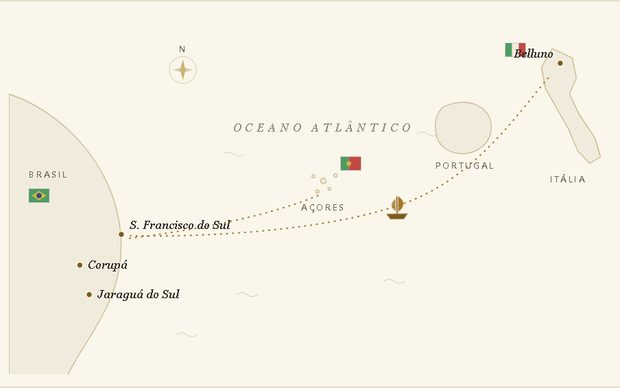
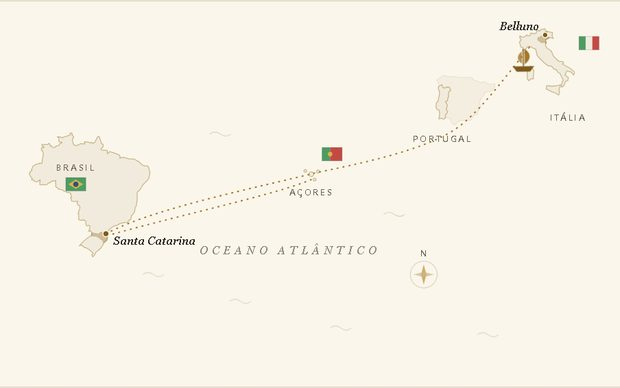
Mapas de verdade: Brasil com SC dourada + Italia com Veneto dourado (insets) + mapa da rota em colagem com formas reais; navio navega ao longo da rota

diff --git a/index.html b/index.html
@@ -266,6 +266,13 @@
       50% { transform: translateY(-3px) rotate(2deg); }
     }
   }
+  .mapa-caminho .pais-vizinho { fill: var(--papel); stroke: var(--linha); stroke-width: 0.8; opacity: 0.75; }
+  .mapa-caminho .destaque { fill: var(--latao); opacity: 0.4; stroke: var(--latao-texto); stroke-width: 1; }
+  .mapa-duplo { display: grid; grid-template-columns: 1fr 1fr; gap: 14px; margin-top: 14px; }
+  @media (max-width: 620px) { .mapa-duplo { grid-template-columns: 1fr; } }
+  .mapa-mini { background: var(--papel-carta); border: 1px solid var(--linha); padding: clamp(8px, 2vw, 14px); margin: 0; }
+  .mapa-mini svg { display: block; width: 100%; height: auto; }
+  .mapa-mini figcaption { text-align: center; font-style: italic; color: var(--tinta-suave); font-size: 0.92rem; margin-top: 8px; }
   .paradas { list-style: none; counter-reset: parada; margin: 30px 0 0; padding: 0; display: grid; gap: 18px; }
   .paradas li { counter-increment: parada; display: grid; grid-template-columns: 46px 1fr; gap: 14px; align-items: start; }
   .paradas li::before {
@@ -1138,49 +1145,32 @@
     <p class="rotulo">Para se situar</p>
     <h2>O caminho da família</h2>
     <p class="abertura-secao">Antes dos capítulos, o mapa: quatro lugares contam de onde viemos e onde criamos raiz. As linhas pontilhadas são as viagens de navio — repare que elas se movem devagarinho, como o mar.</p>
+    <!-- MAPA:INICIO (este trecho é gerado pelo gera_mapas; editar lá) -->
     <div class="mapa-moldura">
-      <svg class="mapa-caminho" viewBox="0 0 900 540" role="img" aria-label="Mapa desenhado à moda antiga mostrando as viagens da família: da Itália e das ilhas dos Açores, atravessando o oceano Atlântico, até Santa Catarina, no Brasil.">
-        <!-- Brasil (costa de Santa Catarina) -->
-        <path class="terra" d="M 0,120 C 60,140 120,190 150,260 C 175,320 172,380 150,430 C 132,472 105,505 88,540 L 0,540 Z"/>
-        <text class="rotulo-pais" x="30" y="245">BRASIL</text>
-        <!-- bandeira do Brasil -->
-        <g transform="translate(30,262)">
-          <rect width="30" height="20" fill="#4E9B63" stroke="rgba(0,0,0,.15)"/>
-          <path d="M 15,3 L 26,10 L 15,17 L 4,10 Z" fill="#D8B54A"/>
-          <circle cx="15" cy="10" r="4" fill="#35507A"/>
-        </g>
-        <!-- Itália (a bota) -->
-        <path class="terra" d="M 812,52 L 842,66 L 848,96 L 838,120 L 852,150 L 876,186 L 884,214 L 868,224 L 850,205 L 836,172 L 818,140 L 802,112 L 796,80 Z"/>
-        <text class="rotulo-pais" x="836" y="252" text-anchor="middle">ITÁLIA</text>
-        <!-- bandeira da Itália -->
-        <g transform="translate(742,44)">
-          <rect width="10" height="20" fill="#4E9B63"/>
-          <rect x="10" width="10" height="20" fill="#F1EBDD"/>
-          <rect x="20" width="10" height="20" fill="#C34A44"/>
-          <rect width="30" height="20" fill="none" stroke="rgba(0,0,0,.15)"/>
-        </g>
-        <!-- Portugal -->
-        <path class="terra" d="M 648,140 C 672,128 700,130 714,148 C 726,164 722,188 706,200 C 688,214 660,212 646,196 C 634,182 634,154 648,140 Z"/>
-        <text class="rotulo-pais" x="682" y="232" text-anchor="middle">PORTUGAL</text>
-        <!-- Açores (as ilhas) -->
-        <circle class="terra" cx="470" cy="250" r="4"/>
-        <circle class="terra" cx="488" cy="242" r="2.6"/>
-        <circle class="terra" cx="455" cy="243" r="2.3"/>
-        <circle class="terra" cx="479" cy="262" r="2.1"/>
-        <circle class="terra" cx="461" cy="266" r="2.5"/>
-        <text class="rotulo-pais" x="470" y="294" text-anchor="middle">AÇORES</text>
-        <!-- bandeira de Portugal -->
-        <g transform="translate(496,214)">
-          <rect width="12" height="20" fill="#4E9B63"/>
-          <rect x="12" width="18" height="20" fill="#C34A44"/>
-          <circle cx="12" cy="10" r="3.4" fill="#D8B54A"/>
-          <rect width="30" height="20" fill="none" stroke="rgba(0,0,0,.15)"/>
-        </g>
-        <!-- as duas viagens (linhas pontilhadas) -->
-        <path class="rota" d="M 806,96 C 760,150 700,240 600,280 C 500,320 320,335 178,332"/>
-        <path class="rota" d="M 462,272 C 380,305 270,325 178,336"/>
-        <!-- o navio (o grupo de fora dá o lugar; o de dentro balança) -->
-        <g transform="translate(580,282)">
+      <svg class="mapa-caminho" viewBox="0 0 900 540" role="img" aria-label="Mapa das viagens da família: da Itália (Belluno) e das ilhas dos Açores, atravessando o oceano Atlântico, até Santa Catarina, no Brasil. As formas dos países são as verdadeiras, arrumadas como num cartaz antigo de navegação.">
+        <path class="pais-vizinho" d="M641.8,110.0 L642.1,103.3 L639.2,99.2 L649.2,92.4 L657.7,94.1 L667.1,94.0 L674.6,95.6 L680.4,95.1 L691.7,95.5 L694.5,99.1 L707.4,103.4 L709.9,101.4 L717.8,105.7 L725.9,104.4 L726.3,109.9 L719.6,116.2 L710.7,118.2 L710.0,121.4 L705.7,126.6 L703.0,134.3 L705.8,139.7 L701.7,143.9 L700.2,150.1 L694.9,152.0 L690.0,159.2 L681.1,159.4 L674.4,159.2 L670.0,162.5 L667.4,166.1 L663.9,165.3 L661.3,162.1 L659.4,156.7 L652.8,155.2 L652.2,152.1 L654.8,148.6 L655.8,146.0 L653.4,143.2 L655.3,137.0 L652.5,131.3 L655.5,130.5 L655.8,126.1 L657.0,124.7 L657.0,117.3 L660.3,114.7 L658.3,110.0 L654.2,109.7 L653.0,110.9 L648.9,110.9 L647.2,106.2 L644.3,107.6 L641.8,110.0 Z"/>
+        <path class="terra" d="M641.8,110.0 L644.3,107.6 L647.2,106.2 L648.9,110.9 L653.0,110.9 L654.2,109.7 L658.3,110.0 L660.3,114.7 L657.0,117.3 L657.0,124.7 L655.8,126.1 L655.5,130.5 L652.5,131.3 L655.3,137.0 L653.4,143.2 L655.8,146.0 L654.8,148.6 L652.2,152.1 L652.8,155.2 L650.0,157.7 L646.3,156.3 L642.7,157.4 L643.8,150.0 L643.1,144.2 L640.0,143.3 L638.3,139.7 L638.9,133.5 L641.7,130.1 L642.2,126.3 L643.6,120.6 L643.5,116.6 L642.1,113.2 L641.8,110.0 Z"/>
+        <path class="terra" d="M824.5,106.5 L822.0,114.0 L823.1,116.9 L821.6,121.8 L816.2,118.2 L812.7,117.2 L802.9,112.4 L803.9,107.5 L812.1,108.4 L819.2,107.4 L824.5,106.5 Z M780.4,78.4 L784.6,85.1 L783.6,97.6 L780.4,97.0 L777.5,100.2 L774.9,97.6 L774.6,86.2 L773.0,80.8 L776.9,81.3 L780.4,78.4 Z M802.5,25.9 L812.5,28.3 L811.8,33.0 L813.5,37.0 L807.9,35.6 L802.2,39.0 L802.6,43.7 L801.7,46.3 L804.0,51.2 L810.6,55.9 L814.1,63.7 L821.9,71.3 L827.4,71.3 L829.1,73.4 L827.1,75.3 L833.4,78.7 L838.5,81.5 L844.5,86.5 L845.3,88.2 L844.0,91.6 L840.1,87.2 L834.0,85.6 L831.0,91.8 L836.1,95.3 L835.3,100.2 L832.3,100.7 L828.6,108.9 L825.7,109.6 L825.7,106.7 L827.1,101.6 L828.7,99.6 L825.9,94.1 L823.8,89.4 L820.9,88.2 L818.8,84.1 L814.3,82.4 L811.3,78.6 L806.1,78.0 L800.6,73.7 L794.2,67.6 L789.5,62.1 L787.3,52.8 L783.8,51.7 L778.1,48.6 L774.9,49.8 L770.9,54.2 L767.9,54.9 L768.7,50.8 L765.0,49.6 L763.1,42.3 L765.6,39.4 L763.5,35.9 L763.8,33.2 L766.8,35.2 L770.2,34.8 L774.1,31.6 L775.3,33.1 L778.7,32.8 L780.2,29.0 L785.4,30.1 L788.4,28.6 L789.0,24.7 L793.2,26.0 L794.1,24.2 L801.0,22.6 L802.5,25.9 Z"/>
+        <path class="destaque" d="M790.3,37.5 L791.7,34.8 L792.1,35.3 L792.2,35.9 L792.7,36.1 L793.0,35.9 L793.7,36.0 L793.9,35.8 L794.1,35.1 L794.4,34.6 L794.7,34.1 L795.0,33.8 L795.4,33.7 L795.9,33.3 L797.0,33.4 L797.7,33.1 L797.6,32.8 L797.7,32.4 L798.3,32.1 L799.0,32.0 L799.5,31.5 L799.4,31.1 L799.2,30.7 L799.0,30.5 L798.5,29.9 L798.5,29.7 L798.7,29.6 L799.0,29.0 L798.6,28.5 L799.5,28.0 L800.2,27.6 L800.4,26.8 L801.0,27.1 L801.3,27.5 L802.1,27.3 L802.6,27.0 L803.4,26.7 L804.0,26.9 L804.7,26.9 L804.8,27.4 L804.3,28.3 L804.1,28.7 L803.3,29.1 L802.8,29.8 L802.2,30.5 L802.5,31.0 L803.0,31.3 L803.4,31.9 L802.9,32.5 L802.8,32.9 L803.1,33.6 L803.5,34.0 L803.8,34.6 L804.0,34.8 L804.3,34.7 L804.7,35.1 L805.2,34.7 L805.6,34.8 L806.4,34.8 L806.7,34.8 L806.8,34.9 L806.9,35.3 L807.0,35.7 L807.2,35.9 L807.3,36.2 L807.4,36.4 L807.6,36.5 L806.3,36.8 L805.4,37.3 L804.0,38.0 L802.9,38.6 L802.2,39.4 L802.0,40.3 L802.2,41.0 L802.3,41.7 L803.5,42.7 L803.7,43.0 L802.8,44.5 L802.3,44.0 L802.0,43.3 L801.4,43.3 L801.0,43.2 L800.2,42.8 L799.3,42.8 L798.5,42.8 L798.1,43.2 L797.6,43.4 L797.0,43.5 L796.5,43.2 L795.9,43.0 L795.2,42.6 L794.8,42.1 L794.1,42.0 L794.2,41.5 L793.6,41.5 L793.2,41.3 L792.9,41.1 L792.5,40.6 L791.7,40.0 L790.9,39.6 L790.7,39.2 L790.8,38.6 L790.4,38.3 Z"/>
+        <path class="terra" d="M105.6,346.7 L111.8,340.2 L117.0,335.6 L120.0,333.7 L123.9,331.1 L124.0,327.3 L121.7,324.5 L119.4,325.4 L120.3,322.7 L121.0,319.9 L121.0,317.3 L119.3,316.4 L117.6,317.2 L115.9,317.0 L115.3,315.2 L114.9,310.8 L114.0,309.4 L110.9,308.1 L109.0,309.1 L104.2,308.1 L104.5,301.7 L103.1,299.1 L104.6,298.1 L104.1,295.4 L105.4,293.3 L106.2,289.6 L105.1,286.6 L102.6,285.3 L102.1,283.4 L102.8,280.7 L94.0,280.5 L92.2,275.0 L93.5,274.9 L93.5,272.9 L92.6,271.5 L92.4,268.7 L89.7,267.3 L86.8,267.4 L84.9,266.0 L81.8,265.1 L80.0,263.3 L74.8,262.5 L69.8,258.3 L70.2,255.1 L69.7,253.3 L70.1,249.7 L64.1,250.5 L61.7,252.3 L57.7,254.2 L56.7,255.6 L54.3,255.8 L50.9,255.4 L48.3,256.2 L46.2,255.6 L46.5,248.4 L42.7,251.2 L38.6,251.1 L36.9,248.6 L33.9,248.3 L34.8,246.3 L32.3,243.4 L30.4,239.1 L31.6,238.2 L31.6,236.2 L34.3,234.9 L33.9,232.3 L35.1,230.7 L35.4,228.4 L40.7,225.2 L44.4,224.3 L45.0,223.6 L49.2,223.8 L51.3,210.8 L51.4,208.8 L50.6,206.0 L48.6,204.3 L48.6,200.9 L51.2,200.1 L52.1,200.6 L52.3,198.8 L49.6,198.3 L49.5,195.3 L58.5,195.4 L60.0,193.8 L61.3,195.3 L62.2,198.1 L63.1,197.5 L65.6,200.0 L69.2,199.7 L70.1,198.2 L73.5,197.1 L75.4,196.4 L75.9,194.4 L79.2,193.0 L79.0,192.0 L75.1,191.6 L74.4,188.6 L74.6,185.4 L72.5,184.2 L73.4,183.8 L76.8,184.4 L80.5,185.6 L81.8,184.4 L85.1,183.7 L90.3,181.9 L91.9,180.1 L91.3,178.8 L93.7,178.6 L94.8,179.7 L94.2,181.8 L95.8,182.5 L96.8,184.7 L95.5,186.3 L94.8,190.4 L96.0,192.8 L96.3,195.0 L99.2,197.2 L101.4,197.4 L101.9,196.5 L103.4,196.3 L105.5,195.5 L107.0,194.2 L109.5,194.6 L110.6,194.4 L113.1,194.8 L113.5,193.9 L112.8,192.9 L113.2,191.5 L115.1,192.0 L117.3,191.5 L119.9,192.5 L121.9,193.5 L123.3,192.2 L124.3,192.4 L125.0,193.7 L127.2,193.4 L128.9,191.6 L130.4,188.1 L133.1,183.7 L134.6,183.5 L135.8,186.1 L138.4,194.4 L140.8,195.2 L140.9,198.5 L137.5,202.4 L138.9,203.8 L147.0,204.6 L147.2,209.3 L150.7,206.2 L156.5,207.9 L164.1,210.8 L166.4,213.6 L165.6,216.2 L171.0,214.7 L179.9,217.2 L186.8,217.1 L193.6,221.0 L199.5,226.3 L203.0,227.7 L207.0,227.8 L208.6,229.3 L210.2,235.4 L210.9,238.2 L209.1,246.1 L206.8,249.2 L200.3,255.8 L197.4,261.1 L194.0,265.2 L192.8,265.3 L191.5,268.8 L191.8,277.7 L190.6,285.0 L190.1,288.1 L188.6,290.0 L187.8,296.3 L183.1,302.5 L182.4,307.4 L178.6,309.5 L177.6,312.3 L172.6,312.3 L165.3,314.1 L162.1,316.2 L156.9,317.6 L151.5,321.4 L147.6,326.1 L147.0,329.6 L147.7,332.3 L146.9,337.0 L145.8,339.4 L142.6,342.0 L137.5,350.3 L133.4,354.1 L130.3,356.3 L128.2,360.8 L125.2,363.5 L123.9,360.8 L125.9,358.6 L123.3,355.3 L119.7,352.7 L114.9,349.7 L113.2,349.8 L108.6,346.2 L105.6,346.7 Z"/>
+        <path class="destaque" d="M123.6,329.3 L123.7,329.0 L123.6,328.5 L123.9,328.1 L124.4,328.1 L125.4,327.9 L126.2,328.3 L127.6,328.3 L128.8,328.6 L129.9,328.8 L131.0,329.0 L131.8,329.4 L133.4,329.5 L134.3,329.8 L135.1,329.5 L134.9,328.9 L134.9,328.3 L135.7,327.9 L136.7,327.8 L137.8,327.0 L138.5,326.8 L139.2,327.3 L139.6,326.9 L140.1,326.9 L140.8,326.8 L141.5,327.0 L141.9,327.3 L142.4,327.6 L142.9,327.7 L143.4,327.5 L144.0,327.1 L144.3,326.8 L144.9,326.7 L145.5,326.6 L147.1,326.6 L147.6,327.7 L147.1,328.9 L146.8,330.1 L147.1,330.6 L147.0,331.4 L147.2,331.8 L147.5,332.0 L147.7,332.4 L147.2,332.4 L147.4,332.9 L147.3,333.2 L147.0,333.6 L147.3,334.2 L147.0,334.5 L147.2,335.6 L147.0,336.2 L147.0,336.7 L146.9,337.3 L146.4,338.2 L146.2,339.0 L143.3,341.0 L141.8,342.3 L141.2,341.9 L140.2,342.2 L140.1,342.3 L140.1,341.8 L140.3,341.7 L140.6,341.6 L140.9,341.3 L140.9,341.0 L140.9,340.5 L140.9,340.0 L141.2,339.6 L141.5,339.3 L142.1,339.1 L141.7,338.4 L141.4,338.3 L140.6,338.3 L139.9,338.4 L139.0,338.3 L137.7,337.8 L136.9,336.8 L136.4,336.0 L135.2,335.1 L134.4,334.6 L133.4,333.9 L132.5,333.9 L131.7,333.6 L131.2,333.0 L130.4,332.6 L129.5,332.5 L128.3,332.8 L127.2,332.4 L126.8,331.8 L125.6,332.3 L124.6,332.1 L123.6,332.3 L123.2,332.0 L123.2,331.7 L123.4,331.5 L123.6,331.2 L123.7,330.9 L123.7,330.5 L123.5,330.2 L123.6,329.9 L123.6,329.4 Z"/>
+        <!-- Açores -->
+        <circle class="terra" cx="452" cy="240" r="3.4"/>
+        <circle class="terra" cx="462" cy="236" r="2.2"/>
+        <circle class="terra" cx="443" cy="235" r="2"/>
+        <circle class="terra" cx="457" cy="248" r="2"/>
+        <text class="rotulo-pais" x="452" y="272" text-anchor="middle">AÇORES</text>
+        <g transform="translate(468,200)"><rect width="12" height="20" fill="#4E9B63"/><rect x="12" width="18" height="20" fill="#C34A44"/><circle cx="12" cy="10" r="3.4" fill="#D8B54A"/><rect width="30" height="20" fill="none" stroke="rgba(0,0,0,.15)"/></g>
+        <text class="rotulo-pais" x="648" y="192" text-anchor="middle">PORTUGAL</text>
+        <g transform="translate(852,34)"><rect width="10" height="20" fill="#4E9B63"/><rect x="10" width="10" height="20" fill="#F1EBDD"/><rect x="20" width="10" height="20" fill="#C34A44"/><rect width="30" height="20" fill="none" stroke="rgba(0,0,0,.15)"/></g>
+        <text class="rotulo-pais" x="836" y="160" text-anchor="middle">ITÁLIA</text>
+        <g transform="translate(85,245)"><rect width="30" height="20" fill="#4E9B63"/><path d="M 15,3 L 26,10 L 15,17 L 4,10 Z" fill="#D8B54A"/><circle cx="15" cy="10" r="4" fill="#35507A"/><rect width="30" height="20" fill="none" stroke="rgba(0,0,0,.15)"/></g>
+        <text class="rotulo-pais" x="100" y="235" text-anchor="middle">BRASIL</text>
+        <!-- as duas viagens -->
+        <path class="rota" d="M778,50 C 730,110 700,150 668,172 C 620,205 520,225 458,238 C 380,258 220,290 149,327"/>
+        <path class="rota" d="M452,248 C 400,270 260,300 150,331"/>
+        <!-- o navio -->
+        <g class="navio-caixa" transform="translate(520,225)">
           <g class="navio">
             <path class="navio-casco" d="M -16,18 L 16,18 L 10,26 L -10,26 Z"/>
             <line class="navio-mastro" x1="0" y1="18" x2="0" y2="-8"/>
@@ -1189,29 +1179,64 @@
           </g>
         </g>
         <!-- cidades -->
-        <circle class="cidade" cx="824" cy="74" r="4.5"/>
-        <text class="rotulo-cidade" x="814" y="66" text-anchor="end">Belluno</text>
-        <circle class="cidade" cx="168" cy="330" r="4.5"/>
-        <text class="rotulo-cidade" x="180" y="322">S. Francisco do Sul</text>
-        <circle class="cidade" cx="106" cy="376" r="4.5"/>
-        <text class="rotulo-cidade" x="118" y="381">Corupá</text>
-        <circle class="cidade" cx="120" cy="420" r="4.5"/>
-        <text class="rotulo-cidade" x="132" y="425">Jaraguá do Sul</text>
-        <!-- enfeites do mar -->
-        <g class="bussola" transform="translate(260,84)">
+        <circle class="cidade" cx="801.4" cy="31.8" r="4"/>
+        <text class="rotulo-cidade" x="792.4" y="24.8" text-anchor="end">Belluno</text>
+        <circle class="cidade" cx="145.0" cy="329.0" r="4.5"/>
+        <text class="rotulo-cidade" x="156.0" y="345.0">Santa Catarina</text>
+        <!-- enfeites -->
+        <g transform="translate(620,390)">
           <circle r="20" class="agua"/>
           <path d="M 0,-15 L 4,0 L 0,15 L -4,0 Z" fill="#C9A050" opacity="0.85"/>
           <path d="M -15,0 L 0,4 L 15,0 L 0,-4 Z" fill="#C9B58A" opacity="0.7"/>
           <text y="-27" text-anchor="middle" class="rotulo-pais" style="letter-spacing:.05em">N</text>
         </g>
-        <text class="oceano-nome" x="470" y="176" text-anchor="middle">OCEANO ATLÂNTICO</text>
-        <path class="agua" d="M 320,210 q 8,-6 16,0 q 8,6 16,0"/>
-        <path class="agua" d="M 610,180 q 8,-6 16,0 q 8,6 16,0"/>
-        <path class="agua" d="M 340,420 q 8,-6 16,0 q 8,6 16,0"/>
-        <path class="agua" d="M 560,400 q 8,-6 16,0 q 8,6 16,0"/>
-        <path class="agua" d="M 250,480 q 8,-6 16,0 q 8,6 16,0"/>
+        <text class="oceano-nome" x="420" y="360" text-anchor="middle">OCEANO ATLÂNTICO</text>
+        <path class="agua" d="M 300,180 q 8,-6 16,0 q 8,6 16,0"/>
+        <path class="agua" d="M 560,300 q 8,-6 16,0 q 8,6 16,0"/>
+        <path class="agua" d="M 330,430 q 8,-6 16,0 q 8,6 16,0"/>
+        <path class="agua" d="M 480,470 q 8,-6 16,0 q 8,6 16,0"/>
+        <path class="agua" d="M 700,480 q 8,-6 16,0 q 8,6 16,0"/>
+        <path class="agua" d="M 200,390 q 8,-6 16,0 q 8,6 16,0"/>
       </svg>
     </div>
+    <div class="mapa-duplo">
+      <figure class="mapa-mini">
+        <svg viewBox="0 0 381 498" class="mapa-caminho" role="img" aria-label="Mapa verdadeiro da Itália com a região do Vêneto pintada de dourado e a cidade de Belluno marcada.">
+        <path class="terra" d="M276.6,379.4 L265.8,411.3 L270.3,423.9 L264.0,444.7 L241.1,429.4 L225.8,425.1 L183.9,404.5 L188.1,383.7 L223.2,387.4 L253.8,383.0 L276.6,379.4 Z M87.3,258.8 L105.3,287.5 L101.1,341.1 L87.4,338.6 L75.2,352.1 L63.8,341.3 L62.6,292.5 L55.8,269.3 L72.3,271.4 L87.3,258.8 Z M182.3,33.7 L225.2,44.2 L221.9,64.1 L229.1,81.4 L205.2,75.5 L180.9,89.8 L182.5,109.9 L178.8,121.5 L188.7,142.1 L216.8,162.5 L231.9,196.0 L265.3,228.6 L288.8,228.4 L296.1,237.3 L287.7,245.4 L314.6,260.0 L336.6,272.3 L362.3,293.4 L365.4,301.0 L359.8,315.5 L343.2,296.6 L317.1,289.9 L304.5,316.1 L326.1,331.1 L322.6,352.2 L310.1,354.6 L294.0,389.4 L281.5,392.5 L281.6,380.1 L287.8,358.4 L294.3,349.7 L282.6,326.3 L273.4,305.8 L261.0,300.8 L252.1,283.3 L232.8,276.0 L219.8,259.7 L197.6,257.0 L174.2,238.8 L146.8,212.4 L126.4,189.1 L117.0,149.0 L102.1,144.3 L77.7,131.0 L63.9,136.4 L46.5,155.2 L34.1,158.2 L37.5,140.6 L21.2,135.5 L13.5,104.1 L23.9,91.8 L15.1,76.6 L16.3,65.2 L29.2,73.8 L43.7,71.9 L60.5,58.2 L65.7,64.6 L80.0,63.3 L86.5,47.0 L108.7,52.0 L121.9,45.2 L124.3,28.6 L142.5,34.4 L145.9,26.7 L175.6,19.6 L182.3,33.7 Z"/>
+        <path class="destaque" d="M130.1,83.6 L132.4,77.6 L135.2,73.0 L136.0,72.2 L137.6,72.4 L137.2,73.2 L137.5,74.0 L136.9,75.0 L136.7,76.2 L138.1,76.6 L139.3,78.0 L140.2,76.9 L140.1,77.5 L141.0,76.6 L141.5,76.2 L141.5,76.7 L142.7,76.2 L143.2,76.8 L144.4,77.1 L144.7,77.4 L145.1,77.0 L145.3,76.4 L146.2,75.6 L146.4,74.3 L146.3,73.4 L146.8,73.2 L146.8,72.2 L147.5,71.2 L148.2,70.6 L148.4,69.4 L148.6,69.2 L148.7,68.7 L149.1,68.1 L150.1,67.9 L151.4,68.5 L151.4,68.1 L151.8,67.4 L152.4,67.1 L152.2,65.5 L153.7,65.6 L155.7,64.5 L157.8,64.4 L158.6,65.9 L160.7,66.2 L161.6,66.0 L161.4,64.8 L161.2,64.0 L161.4,63.7 L161.0,63.3 L162.0,63.0 L162.2,62.9 L161.5,61.6 L161.7,61.0 L162.5,60.6 L164.2,60.5 L164.5,60.6 L165.5,60.5 L167.3,60.0 L168.4,59.0 L168.8,58.1 L169.3,57.8 L169.5,57.4 L169.9,57.1 L168.8,56.3 L168.3,55.7 L168.7,54.8 L167.8,54.6 L167.6,54.2 L167.6,53.7 L167.1,53.7 L165.8,53.3 L166.0,51.6 L165.1,51.1 L164.4,50.1 L164.9,49.9 L165.1,50.0 L165.4,49.8 L165.5,49.6 L166.1,49.9 L166.3,48.3 L166.4,47.4 L167.1,47.3 L167.4,45.9 L165.9,45.5 L165.3,45.2 L167.3,43.6 L168.7,43.3 L169.5,43.0 L171.0,43.2 L171.9,41.8 L172.4,41.1 L172.8,39.7 L173.2,38.8 L173.3,37.6 L173.7,37.9 L174.3,38.2 L175.7,39.1 L176.3,39.4 L176.8,40.1 L176.8,40.7 L178.0,39.9 L179.1,39.6 L180.2,39.7 L180.9,39.3 L182.6,39.5 L182.4,38.8 L183.8,38.0 L185.3,37.3 L186.0,37.3 L186.4,37.3 L187.8,38.3 L188.6,38.2 L190.0,38.2 L190.6,38.3 L191.8,38.3 L192.7,38.9 L192.2,39.7 L192.0,40.4 L190.9,41.2 L190.0,41.8 L189.9,44.2 L190.9,45.8 L189.6,45.5 L188.8,45.7 L186.9,46.0 L186.2,46.9 L185.8,47.6 L185.1,49.0 L184.8,49.4 L183.6,50.5 L182.5,51.4 L181.6,51.9 L180.7,53.7 L181.1,55.0 L181.6,55.2 L182.2,55.7 L183.3,55.8 L183.6,56.4 L184.3,56.8 L184.7,57.9 L185.8,58.7 L185.9,59.6 L185.8,59.9 L184.9,61.0 L183.7,62.1 L183.1,63.1 L183.2,63.4 L183.4,64.0 L183.8,65.3 L184.0,67.0 L184.7,67.1 L185.7,67.8 L186.2,68.0 L186.4,68.6 L186.2,68.9 L187.1,70.1 L187.8,71.0 L187.8,71.9 L188.0,71.6 L188.5,72.1 L188.8,72.2 L189.0,71.5 L189.7,71.7 L190.4,72.4 L190.9,73.2 L191.4,73.1 L192.2,72.2 L193.2,71.7 L193.6,71.4 L194.3,70.7 L195.0,71.6 L195.6,71.9 L196.1,71.2 L197.7,72.1 L198.7,71.9 L199.5,71.2 L200.0,71.4 L200.3,71.9 L200.6,72.1 L200.7,72.5 L200.4,72.3 L200.6,73.0 L200.8,73.0 L201.1,74.3 L201.2,74.5 L201.5,75.2 L201.2,75.9 L201.5,75.9 L201.8,75.5 L202.1,76.9 L202.5,77.1 L202.5,77.5 L202.6,77.9 L203.0,78.1 L202.9,78.6 L203.0,78.7 L203.3,78.6 L203.5,78.7 L204.0,79.5 L200.8,79.9 L198.5,80.5 L198.2,80.4 L197.5,81.1 L196.1,81.9 L194.6,82.8 L192.5,84.1 L189.9,85.1 L188.4,85.9 L185.6,87.0 L184.4,87.7 L183.8,88.4 L182.7,88.2 L181.2,90.5 L180.9,91.6 L180.8,91.9 L180.1,94.0 L179.9,95.4 L180.1,96.0 L180.0,96.9 L181.0,98.7 L180.9,99.1 L180.8,99.8 L181.3,101.7 L182.2,102.7 L184.8,105.1 L186.2,105.7 L186.4,105.7 L187.6,106.7 L187.1,107.2 L185.8,109.6 L184.0,112.2 L183.3,113.5 L182.2,113.2 L181.4,112.2 L181.1,111.3 L179.9,111.0 L179.5,109.4 L179.8,108.4 L179.2,107.6 L178.0,108.2 L177.4,108.3 L176.7,108.3 L176.2,107.7 L175.8,108.1 L174.5,107.1 L173.0,106.5 L172.4,106.2 L170.6,106.0 L169.2,106.1 L168.3,106.3 L167.5,106.3 L165.8,106.3 L165.0,106.3 L163.9,106.9 L163.5,107.0 L163.3,107.8 L162.9,108.3 L162.0,108.5 L161.3,108.7 L160.3,109.4 L158.9,109.7 L158.6,109.3 L158.6,108.8 L157.9,108.6 L156.6,107.9 L155.0,107.9 L153.8,108.1 L153.8,107.3 L153.7,106.8 L152.9,106.5 L150.7,105.3 L149.5,104.6 L149.1,104.2 L149.1,103.4 L148.7,103.1 L147.7,103.2 L146.4,102.8 L146.4,102.2 L146.4,101.8 L146.8,100.8 L145.8,100.5 L145.0,100.8 L144.1,100.7 L143.6,101.3 L142.3,100.8 L142.3,99.9 L142.4,99.1 L141.6,99.0 L140.8,99.1 L140.8,97.9 L140.5,97.2 L139.4,96.8 L138.5,95.8 L137.4,95.3 L136.0,94.1 L134.8,92.8 L133.0,93.0 L132.6,92.4 L132.3,92.3 L132.0,91.5 L131.8,91.0 L132.0,90.1 L132.5,89.0 L131.9,88.2 L130.3,88.4 L130.2,87.3 L130.4,87.0 Z"/>
+        <circle class="cidade" cx="177.5" cy="59.1" r="5"/>
+        <text class="rotulo-cidade" x="186.5" y="53.1">Belluno</text>
+        <text class="rotulo-pais" x="290" y="470" text-anchor="middle">ITÁLIA</text>
+        <g transform="translate(20,20)"><rect width="10" height="20" fill="#4E9B63"/><rect x="10" width="10" height="20" fill="#F1EBDD"/><rect x="20" width="10" height="20" fill="#C34A44"/><rect width="30" height="20" fill="none" stroke="rgba(0,0,0,.15)"/></g>
+      </svg>
+        <figcaption>A Itália de verdade — com o <strong>Vêneto</strong> pintado de dourado: é lá que fica <strong>Belluno</strong>, de onde os Schiocchet partiram.</figcaption>
+      </figure>
+      <figure class="mapa-mini">
+        <svg viewBox="0 0 465 417" class="mapa-caminho" role="img" aria-label="Mapa verdadeiro do Brasil com o estado de Santa Catarina pintado de dourado e a região de Corupá e Jaraguá do Sul marcada.">
+        <path class="terra" d="M168.7,373.0 L182.1,359.0 L193.4,349.0 L200.1,344.8 L208.5,339.1 L208.7,330.9 L203.7,324.9 L198.7,326.9 L200.7,321.0 L202.1,314.9 L202.1,309.2 L198.5,307.3 L194.7,309.0 L191.0,308.6 L189.8,304.6 L188.9,295.2 L187.0,292.1 L180.3,289.3 L176.2,291.3 L165.6,289.3 L166.3,275.3 L163.3,269.6 L166.5,267.5 L165.5,261.6 L168.2,257.1 L170.0,249.0 L167.7,242.6 L162.2,239.7 L161.1,235.6 L162.6,229.7 L143.4,229.3 L139.6,217.3 L142.5,217.1 L142.4,212.7 L140.4,209.6 L140.0,203.7 L134.2,200.6 L127.9,200.7 L123.7,197.7 L117.0,195.7 L113.0,191.9 L101.8,190.2 L91.0,180.9 L91.8,174.0 L90.6,170.1 L91.6,162.3 L78.5,164.1 L73.3,168.0 L64.5,172.1 L62.3,175.2 L57.1,175.5 L49.7,174.6 L44.1,176.4 L39.5,175.2 L40.2,159.5 L32.0,165.6 L23.2,165.4 L19.4,159.9 L12.7,159.3 L14.8,154.8 L9.3,148.6 L5.1,139.3 L7.8,137.4 L7.8,133.1 L13.8,130.1 L12.8,124.5 L15.4,120.9 L16.1,116.1 L27.5,109.1 L35.7,107.1 L37.1,105.6 L46.1,106.1 L50.6,77.8 L50.8,73.4 L49.2,67.5 L44.8,63.7 L44.8,56.2 L50.5,54.5 L52.5,55.6 L52.8,51.6 L47.0,50.6 L46.8,44.1 L66.3,44.4 L69.6,40.8 L72.4,44.1 L74.3,50.2 L76.2,48.9 L81.7,54.3 L89.5,53.7 L91.5,50.5 L98.9,48.1 L103.0,46.4 L104.2,42.1 L111.3,39.1 L110.8,37.0 L102.3,36.1 L100.9,29.6 L101.3,22.7 L96.8,20.0 L98.7,19.1 L106.1,20.4 L114.1,23.0 L117.0,20.5 L124.1,18.9 L135.3,15.1 L139.0,11.1 L137.7,8.2 L142.9,7.8 L145.2,10.2 L143.9,14.7 L147.3,16.2 L149.6,21.0 L146.8,24.7 L145.3,33.4 L147.8,38.6 L148.5,43.4 L154.7,48.2 L159.6,48.7 L160.7,46.7 L163.9,46.3 L168.4,44.5 L171.6,41.7 L177.2,42.6 L179.6,42.2 L185.0,43.1 L185.9,41.0 L184.3,38.9 L185.3,35.9 L189.3,36.9 L194.0,35.8 L199.8,38.0 L204.1,40.1 L207.2,37.3 L209.5,37.8 L210.8,40.7 L215.6,39.9 L219.4,36.0 L222.5,28.4 L228.4,19.0 L231.8,18.5 L234.3,24.2 L239.9,42.2 L245.3,43.9 L245.5,51.0 L238.0,59.5 L241.1,62.6 L258.8,64.2 L259.2,74.5 L266.8,67.8 L279.3,71.5 L295.9,77.8 L300.8,83.8 L299.2,89.5 L310.8,86.3 L330.3,91.8 L345.2,91.4 L360.0,99.9 L372.8,111.5 L380.5,114.4 L389.0,114.8 L392.6,118.1 L396.0,131.2 L397.7,137.4 L393.7,154.5 L388.6,161.2 L374.5,175.5 L368.2,187.2 L360.8,196.1 L358.3,196.3 L355.5,203.9 L356.2,223.2 L353.4,239.0 L352.3,245.8 L349.2,249.9 L347.4,263.7 L337.3,277.1 L335.6,287.8 L327.5,292.2 L325.1,298.4 L314.3,298.4 L298.5,302.3 L291.5,306.9 L280.3,309.9 L268.5,318.1 L260.0,328.3 L258.6,336.0 L260.3,341.7 L258.4,352.1 L256.1,357.1 L249.1,362.8 L238.0,380.9 L229.2,389.1 L222.4,393.9 L217.9,403.7 L211.3,409.6 L208.5,403.8 L212.9,398.9 L207.1,391.9 L199.3,386.2 L189.0,379.6 L185.3,379.9 L175.2,371.9 L168.7,373.0 Z"/>
+        <path class="destaque" d="M207.8,335.4 L207.7,335.1 L207.8,334.8 L208.1,334.6 L208.0,334.1 L208.1,334.0 L208.0,333.5 L208.1,333.2 L208.3,332.9 L208.5,332.6 L208.8,332.3 L209.3,332.4 L210.4,332.6 L211.4,332.2 L211.7,332.2 L212.3,332.3 L213.0,333.0 L213.6,333.3 L214.5,333.5 L215.9,333.3 L217.2,333.2 L217.8,333.3 L218.9,333.8 L219.6,333.8 L220.5,334.1 L221.4,334.1 L222.2,334.4 L223.1,334.2 L223.9,334.5 L224.4,335.0 L224.9,335.4 L225.7,335.6 L226.8,335.6 L228.4,335.4 L229.3,335.7 L230.3,336.0 L230.9,337.0 L231.4,336.4 L232.2,336.2 L232.7,335.9 L232.7,335.4 L232.5,335.0 L232.4,334.5 L232.2,334.2 L232.2,333.7 L232.4,333.1 L233.0,332.7 L233.6,332.5 L234.1,332.1 L235.3,332.2 L235.9,332.5 L236.4,332.1 L237.6,332.1 L238.5,330.9 L239.5,330.1 L239.4,329.7 L240.2,329.9 L240.5,329.9 L241.0,330.2 L241.5,330.8 L241.7,330.7 L242.1,330.1 L242.7,330.1 L243.2,330.4 L243.2,329.9 L243.8,330.3 L244.2,330.1 L245.0,330.0 L245.3,330.2 L245.8,329.9 L246.4,330.2 L246.7,330.3 L247.1,330.7 L247.5,330.8 L247.9,331.2 L248.4,331.6 L248.6,331.6 L249.0,331.9 L249.5,332.0 L249.7,331.9 L250.1,331.8 L250.4,331.4 L250.9,331.3 L251.3,331.1 L252.0,330.7 L252.2,330.4 L252.3,330.3 L252.7,329.9 L253.1,329.7 L253.6,329.7 L254.1,329.6 L254.6,329.7 L255.1,329.6 L255.4,329.5 L258.3,329.4 L258.8,329.4 L259.0,329.4 L259.1,331.2 L259.8,331.9 L260.0,332.0 L259.3,333.3 L259.0,334.2 L258.5,335.2 L258.2,336.0 L258.2,336.8 L258.5,337.5 L259.0,337.5 L259.0,338.1 L258.6,338.8 L258.7,339.5 L258.8,339.9 L259.2,340.0 L259.1,340.4 L259.0,340.8 L258.9,341.1 L259.6,341.5 L259.9,341.2 L260.2,341.3 L260.0,341.8 L260.0,342.1 L259.9,341.8 L259.2,342.1 L258.8,342.6 L259.2,343.1 L259.5,343.1 L259.7,343.4 L259.7,343.8 L259.4,343.9 L259.4,344.2 L258.7,344.4 L258.6,344.8 L258.8,345.4 L259.1,345.8 L259.3,346.2 L258.8,346.1 L258.6,346.4 L259.0,347.5 L259.2,348.6 L259.1,349.0 L259.2,349.2 L258.8,349.6 L258.7,350.3 L258.9,350.6 L258.7,351.0 L258.7,351.4 L258.5,351.7 L258.3,352.3 L258.5,352.7 L257.9,353.7 L257.6,354.6 L257.4,355.3 L257.4,355.7 L256.9,356.2 L256.5,356.5 L252.1,359.3 L250.6,360.7 L249.6,361.7 L247.6,363.8 L247.3,363.6 L246.6,363.3 L246.4,362.9 L245.7,362.6 L244.9,362.8 L244.1,363.1 L244.6,364.1 L244.3,363.8 L243.8,363.5 L243.6,363.3 L243.5,362.9 L243.5,362.6 L243.9,362.9 L244.1,362.5 L244.2,362.1 L244.2,362.5 L244.8,362.3 L244.9,362.1 L245.1,361.8 L245.3,361.6 L245.4,361.2 L245.3,361.2 L245.5,360.9 L245.4,360.6 L245.7,360.2 L245.4,359.6 L245.7,359.2 L245.5,358.9 L245.5,358.4 L245.5,358.1 L245.7,357.7 L246.1,357.8 L246.4,357.4 L246.8,357.3 L246.8,356.9 L247.2,356.6 L247.9,356.6 L247.9,356.2 L247.7,355.5 L247.4,355.2 L247.1,355.2 L246.6,355.3 L246.2,354.9 L245.9,354.9 L245.4,354.8 L244.8,354.9 L244.0,355.2 L243.5,354.9 L243.1,354.9 L242.4,354.8 L241.5,354.9 L240.8,354.6 L239.7,354.6 L238.8,354.2 L238.1,353.2 L237.3,352.1 L237.1,351.6 L236.3,351.3 L236.2,350.6 L235.6,349.9 L234.8,349.4 L234.2,348.5 L233.0,347.9 L232.3,347.5 L231.9,347.0 L231.0,346.4 L230.2,346.0 L229.4,345.9 L228.8,345.1 L228.2,345.1 L227.0,345.0 L226.6,345.3 L226.3,345.2 L225.4,344.7 L224.9,344.0 L225.0,343.8 L224.0,343.5 L223.4,342.8 L222.5,343.0 L222.2,342.6 L221.5,342.9 L220.8,342.8 L220.2,342.3 L219.2,342.5 L218.2,342.7 L217.7,342.4 L216.8,342.0 L216.0,341.9 L215.2,342.2 L215.0,341.3 L214.7,340.7 L213.7,341.7 L213.2,341.8 L211.9,342.1 L211.6,341.1 L210.9,341.3 L210.1,341.9 L208.9,341.8 L208.3,341.6 L207.4,341.7 L206.7,341.6 L206.8,341.2 L207.0,341.0 L207.0,340.7 L207.1,340.6 L207.3,340.6 L207.3,340.3 L207.4,340.0 L207.7,339.8 L207.7,339.6 L208.0,339.4 L208.3,339.3 L208.2,338.9 L208.1,338.5 L208.1,338.3 L208.0,338.0 L207.9,337.7 L207.7,337.5 L207.6,337.2 L207.6,337.0 L207.6,336.6 L207.7,336.5 L207.5,336.2 L207.7,336.0 L207.8,335.4 Z M260.9,343.9 L260.9,344.1 L261.0,344.1 L261.0,344.3 L261.0,344.3 L261.1,344.4 L261.1,344.4 L261.1,344.4 L261.2,344.4 L261.3,344.5 L261.3,344.5 L261.3,344.4 L261.3,344.4 L261.4,344.4 L261.4,344.4 L261.4,344.5 L261.4,344.5 L261.4,344.5 L261.3,344.5 L261.3,344.6 L261.3,344.6 L261.3,344.7 L261.2,344.9 L261.2,344.9 L261.1,344.9 L261.1,344.9 L261.1,344.9 L261.0,345.0 L260.9,345.3 L260.9,345.3 L260.8,345.3 L260.7,345.5 L260.7,345.6 L260.7,345.6 L260.7,345.6 L260.7,345.7 L260.7,345.8 L260.8,345.8 L260.8,345.8 L260.8,345.8 L260.8,345.8 L260.9,345.8 L260.8,345.9 L260.8,346.0 L260.7,346.0 L260.7,346.1 L260.6,346.2 L260.7,346.2 L260.7,346.3 L260.6,346.3 L260.6,346.3 L260.6,346.3 L260.6,346.3 L260.6,346.3 L260.5,346.4 L260.5,346.4 L260.5,346.4 L260.5,346.4 L260.3,346.6 L260.3,346.7 L260.2,346.8 L260.2,346.9 L260.2,347.0 L260.2,347.0 L260.2,347.0 L260.2,347.0 L260.0,347.3 L260.0,347.3 L260.0,347.4 L259.9,347.5 L259.9,347.6 L260.0,347.6 L260.0,347.7 L260.1,347.7 L260.1,347.7 L260.1,347.7 L260.2,347.7 L260.2,347.7 L260.2,347.8 L260.2,347.8 L260.2,347.8 L260.2,347.9 L260.1,347.9 L260.2,348.0 L260.1,348.0 L260.1,348.0 L260.0,348.1 L259.9,348.0 L259.9,348.0 L259.9,348.0 L259.8,347.9 L259.8,348.0 L259.7,348.0 L259.7,348.0 L259.7,348.0 L259.7,348.1 L259.7,348.1 L259.6,348.3 L259.6,348.4 L259.6,348.4 L259.4,348.5 L259.4,348.5 L259.3,348.5 L259.3,348.5 L259.3,348.4 L259.4,348.3 L259.4,348.2 L259.3,348.1 L259.3,348.1 L259.3,348.1 L259.4,348.1 L259.3,348.0 L259.3,347.9 L259.3,347.9 L259.3,347.8 L259.3,347.8 L259.2,347.8 L259.2,347.7 L259.3,347.7 L259.4,347.6 L259.4,347.6 L259.4,347.5 L259.4,347.5 L259.4,347.4 L259.4,347.3 L259.4,347.3 L259.4,347.3 L259.4,347.3 L259.5,347.1 L259.5,347.1 L259.5,347.1 L259.4,347.0 L259.4,347.1 L259.4,347.1 L259.3,347.0 L259.3,347.0 L259.3,346.9 L259.3,346.9 L259.3,346.8 L259.3,346.8 L259.4,346.8 L259.4,346.7 L259.4,346.7 L259.5,346.6 L259.6,346.6 L259.6,346.5 L259.6,346.5 L259.6,346.6 L259.7,346.6 L259.8,346.6 L259.7,346.4 L259.7,346.3 L259.7,346.2 L259.6,346.2 L259.6,346.2 L259.6,346.2 L259.5,346.2 L259.5,346.2 L259.5,346.1 L259.4,346.1 L259.4,346.1 L259.4,346.1 L259.4,346.0 L259.4,346.0 L259.5,345.9 L259.6,345.8 L259.6,345.8 L259.6,345.8 L259.7,345.8 L259.7,345.8 L259.8,345.8 L259.8,345.7 L259.8,345.7 L259.8,345.7 L259.8,345.7 L259.9,345.6 L259.9,345.6 L259.9,345.5 L259.8,345.5 L259.7,345.5 L259.7,345.5 L259.7,345.4 L259.8,345.4 L259.7,345.3 L259.8,345.3 L259.8,345.3 L259.8,345.2 L259.8,345.2 L259.8,345.1 L259.8,345.0 L259.8,345.0 L259.7,345.0 L259.7,345.0 L259.7,344.9 L259.6,345.0 L259.6,344.9 L259.6,344.8 L259.6,344.8 L259.7,344.7 L259.7,344.7 L259.7,344.7 L259.7,344.7 L259.8,344.7 L259.8,344.7 L259.8,344.7 L259.8,344.6 L259.7,344.6 L259.7,344.6 L259.6,344.6 L259.6,344.6 L259.5,344.6 L259.6,344.5 L259.7,344.5 L259.8,344.4 L259.8,344.4 L259.8,344.3 L259.8,344.3 L259.9,344.4 L260.0,344.4 L260.2,344.4 L260.2,344.4 L260.2,344.3 L260.5,344.3 L260.5,344.3 L260.5,344.3 L260.7,344.2 L260.7,344.1 L260.7,344.1 L260.7,344.1 L260.7,344.0 L260.7,344.1 L260.7,343.9 L260.7,343.9 L260.8,343.9 L260.8,343.9 L260.8,343.8 L260.9,343.9 L260.9,343.9 Z"/>
+        <circle class="cidade" cx="254.3" cy="334.6" r="5"/>
+        <text class="rotulo-cidade" x="264.3" y="338.6">Corupá · Jaraguá do Sul</text>
+        <text class="rotulo-pais" x="150" y="55" text-anchor="middle">BRASIL</text>
+        <g transform="translate(20,20)"><rect width="30" height="20" fill="#4E9B63"/><path d="M 15,3 L 26,10 L 15,17 L 4,10 Z" fill="#D8B54A"/><circle cx="15" cy="10" r="4" fill="#35507A"/><rect width="30" height="20" fill="none" stroke="rgba(0,0,0,.15)"/></g>
+      </svg>
+        <figcaption>O Brasil de verdade — com <strong>Santa Catarina</strong> pintada de dourado: é onde ficam <strong>Corupá e Jaraguá do Sul</strong>, o chão da família.</figcaption>
+      </figure>
+    </div>
+    <style>
+      @supports (offset-path: path("M 0 0 L 1 1")) {
+        @media (prefers-reduced-motion: no-preference) {
+          .mapa-caminho .navio-caixa {
+            transform: none;
+            offset-path: path('M778,50 C 730,110 700,150 668,172 C 620,205 520,225 458,238 C 380,258 220,290 149,327');
+            offset-rotate: 0deg;
+            animation: velejar 90s ease-in-out infinite alternate;
+          }
+          @keyframes velejar { from { offset-distance: 2%; } to { offset-distance: 98%; } }
+        }
+      }
+    </style>
+    <!-- MAPA:FIM -->
     <ol class="paradas">
       <li><p><svg class="bandeira" viewBox="0 0 30 20" aria-hidden="true"><rect width="10" height="20" fill="#4E9B63"/><rect x="10" width="10" height="20" fill="#F1EBDD"/><rect x="20" width="10" height="20" fill="#C34A44"/></svg><strong>Belluno</strong> — a cidadezinha nas montanhas do norte da Itália de onde saiu a família do vô Vitório. Foi de lá que o bisavô Vittore, com 13 anos, embarcou no navio <em>Adria</em>.</p></li>
       <li><p><svg class="bandeira" viewBox="0 0 30 20" aria-hidden="true"><rect width="12" height="20" fill="#4E9B63"/><rect x="12" width="18" height="20" fill="#C34A44"/><circle cx="12" cy="10" r="3.4" fill="#D8B54A"/></svg><strong>Açores</strong> — ilhas de Portugal, no meio do oceano. Foi de lá que veio, há muito tempo, a família da vó Maria — os Garcia, que chegaram ao litoral de Santa Catarina ainda no tempo das caravelas.</p></li>